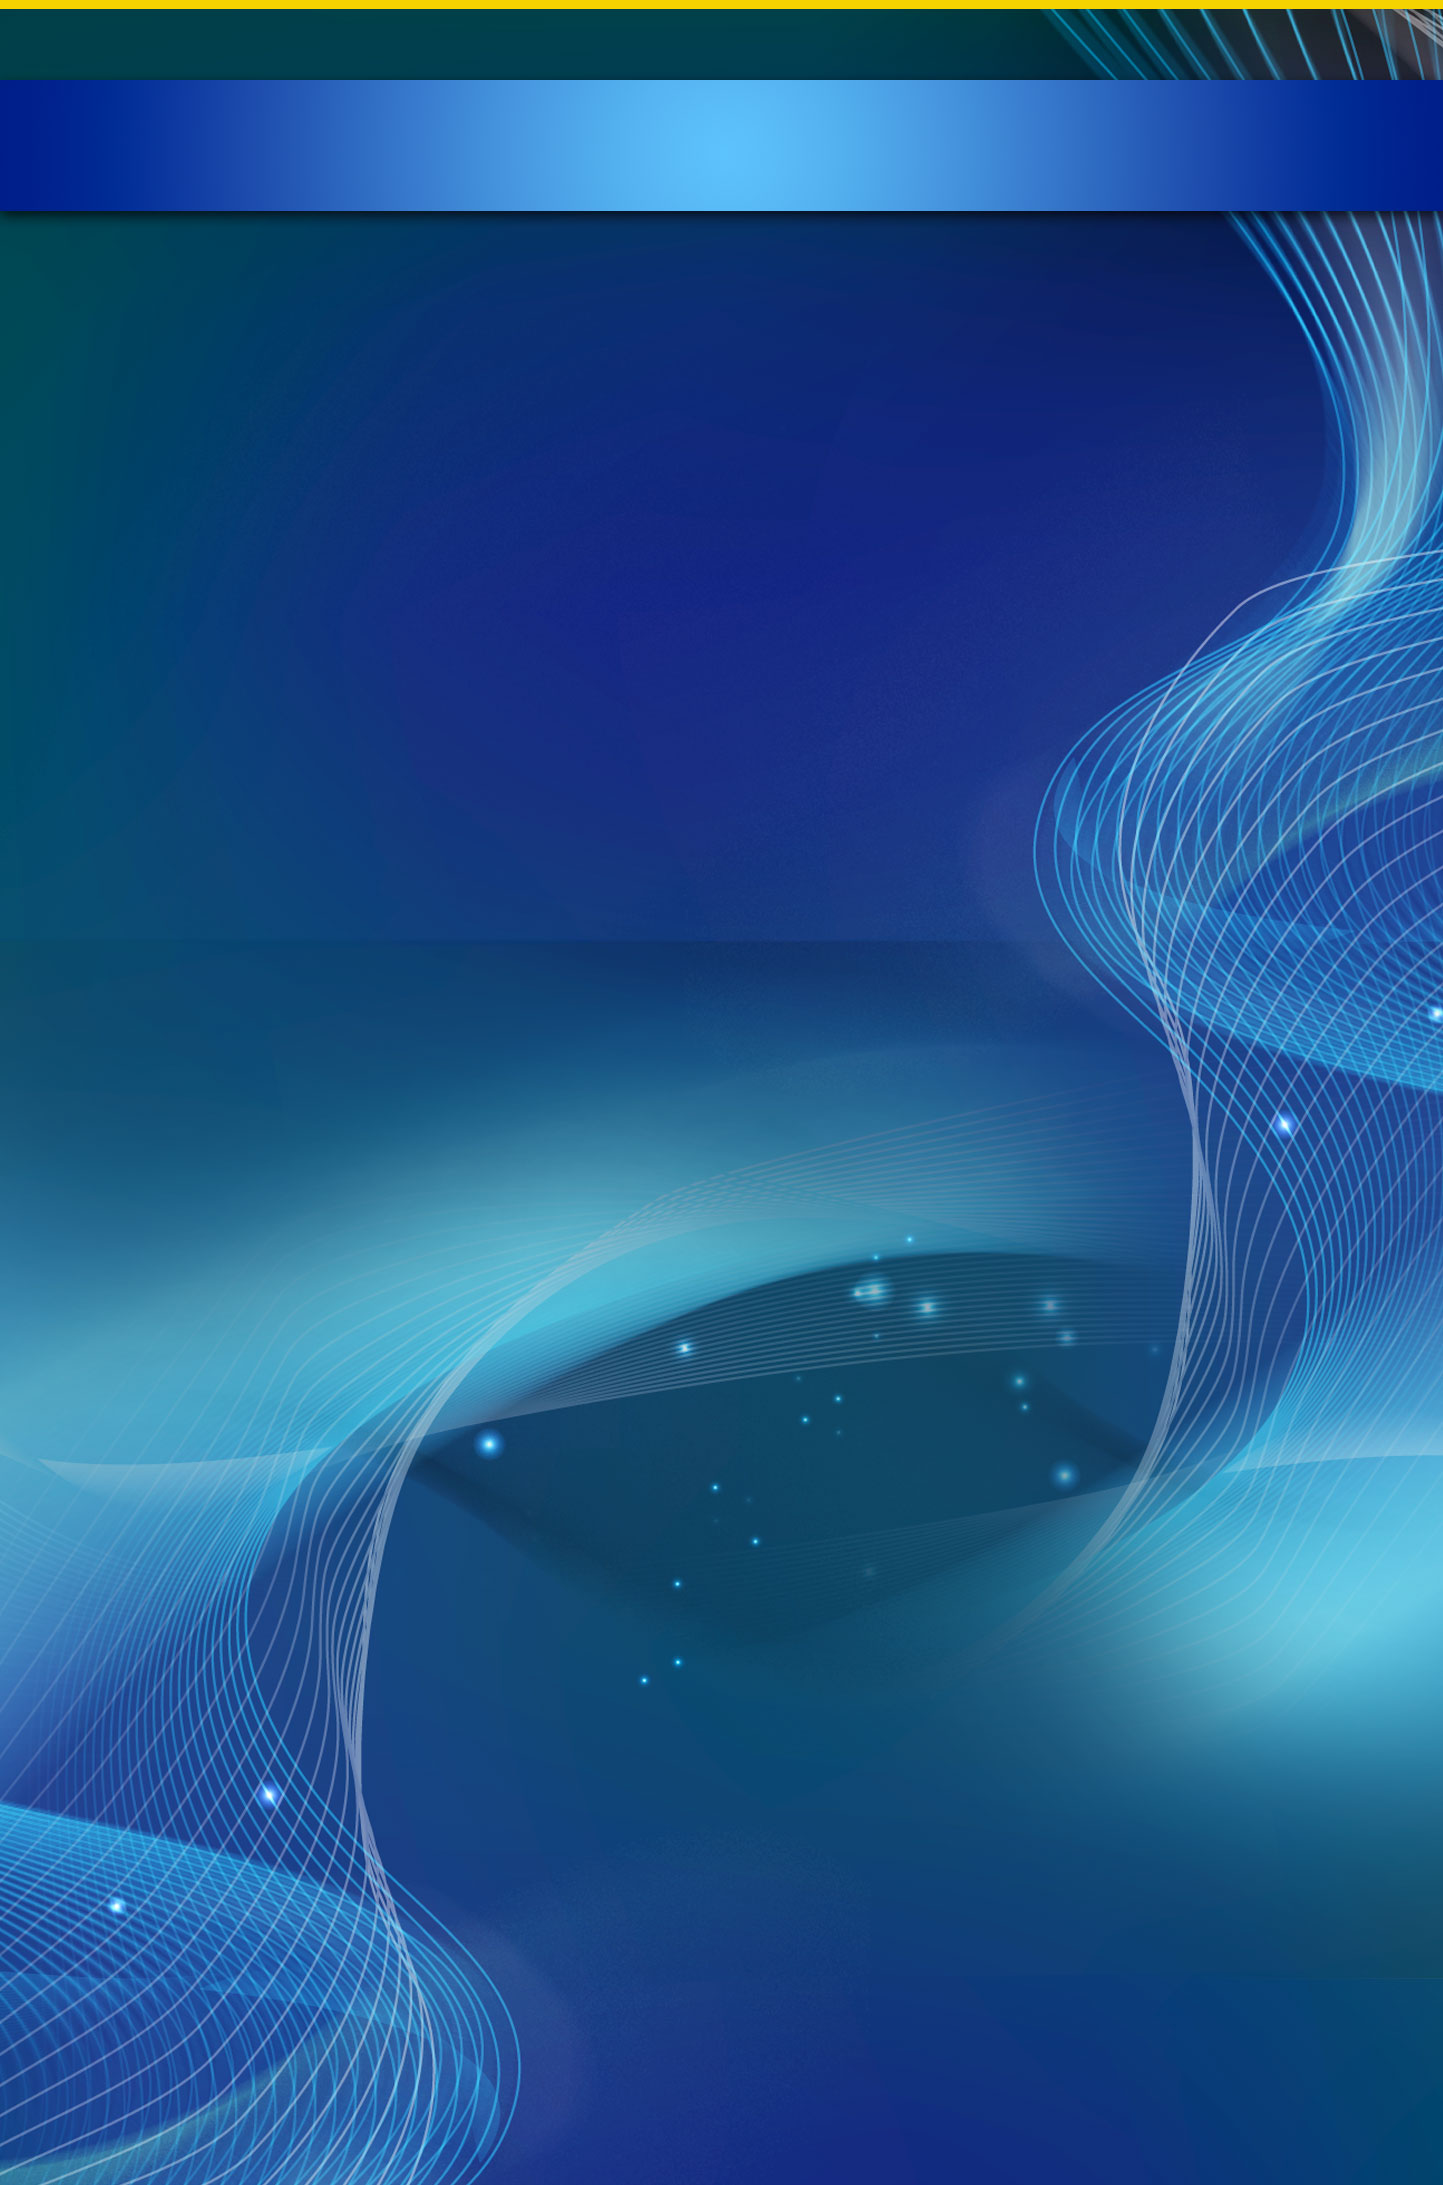
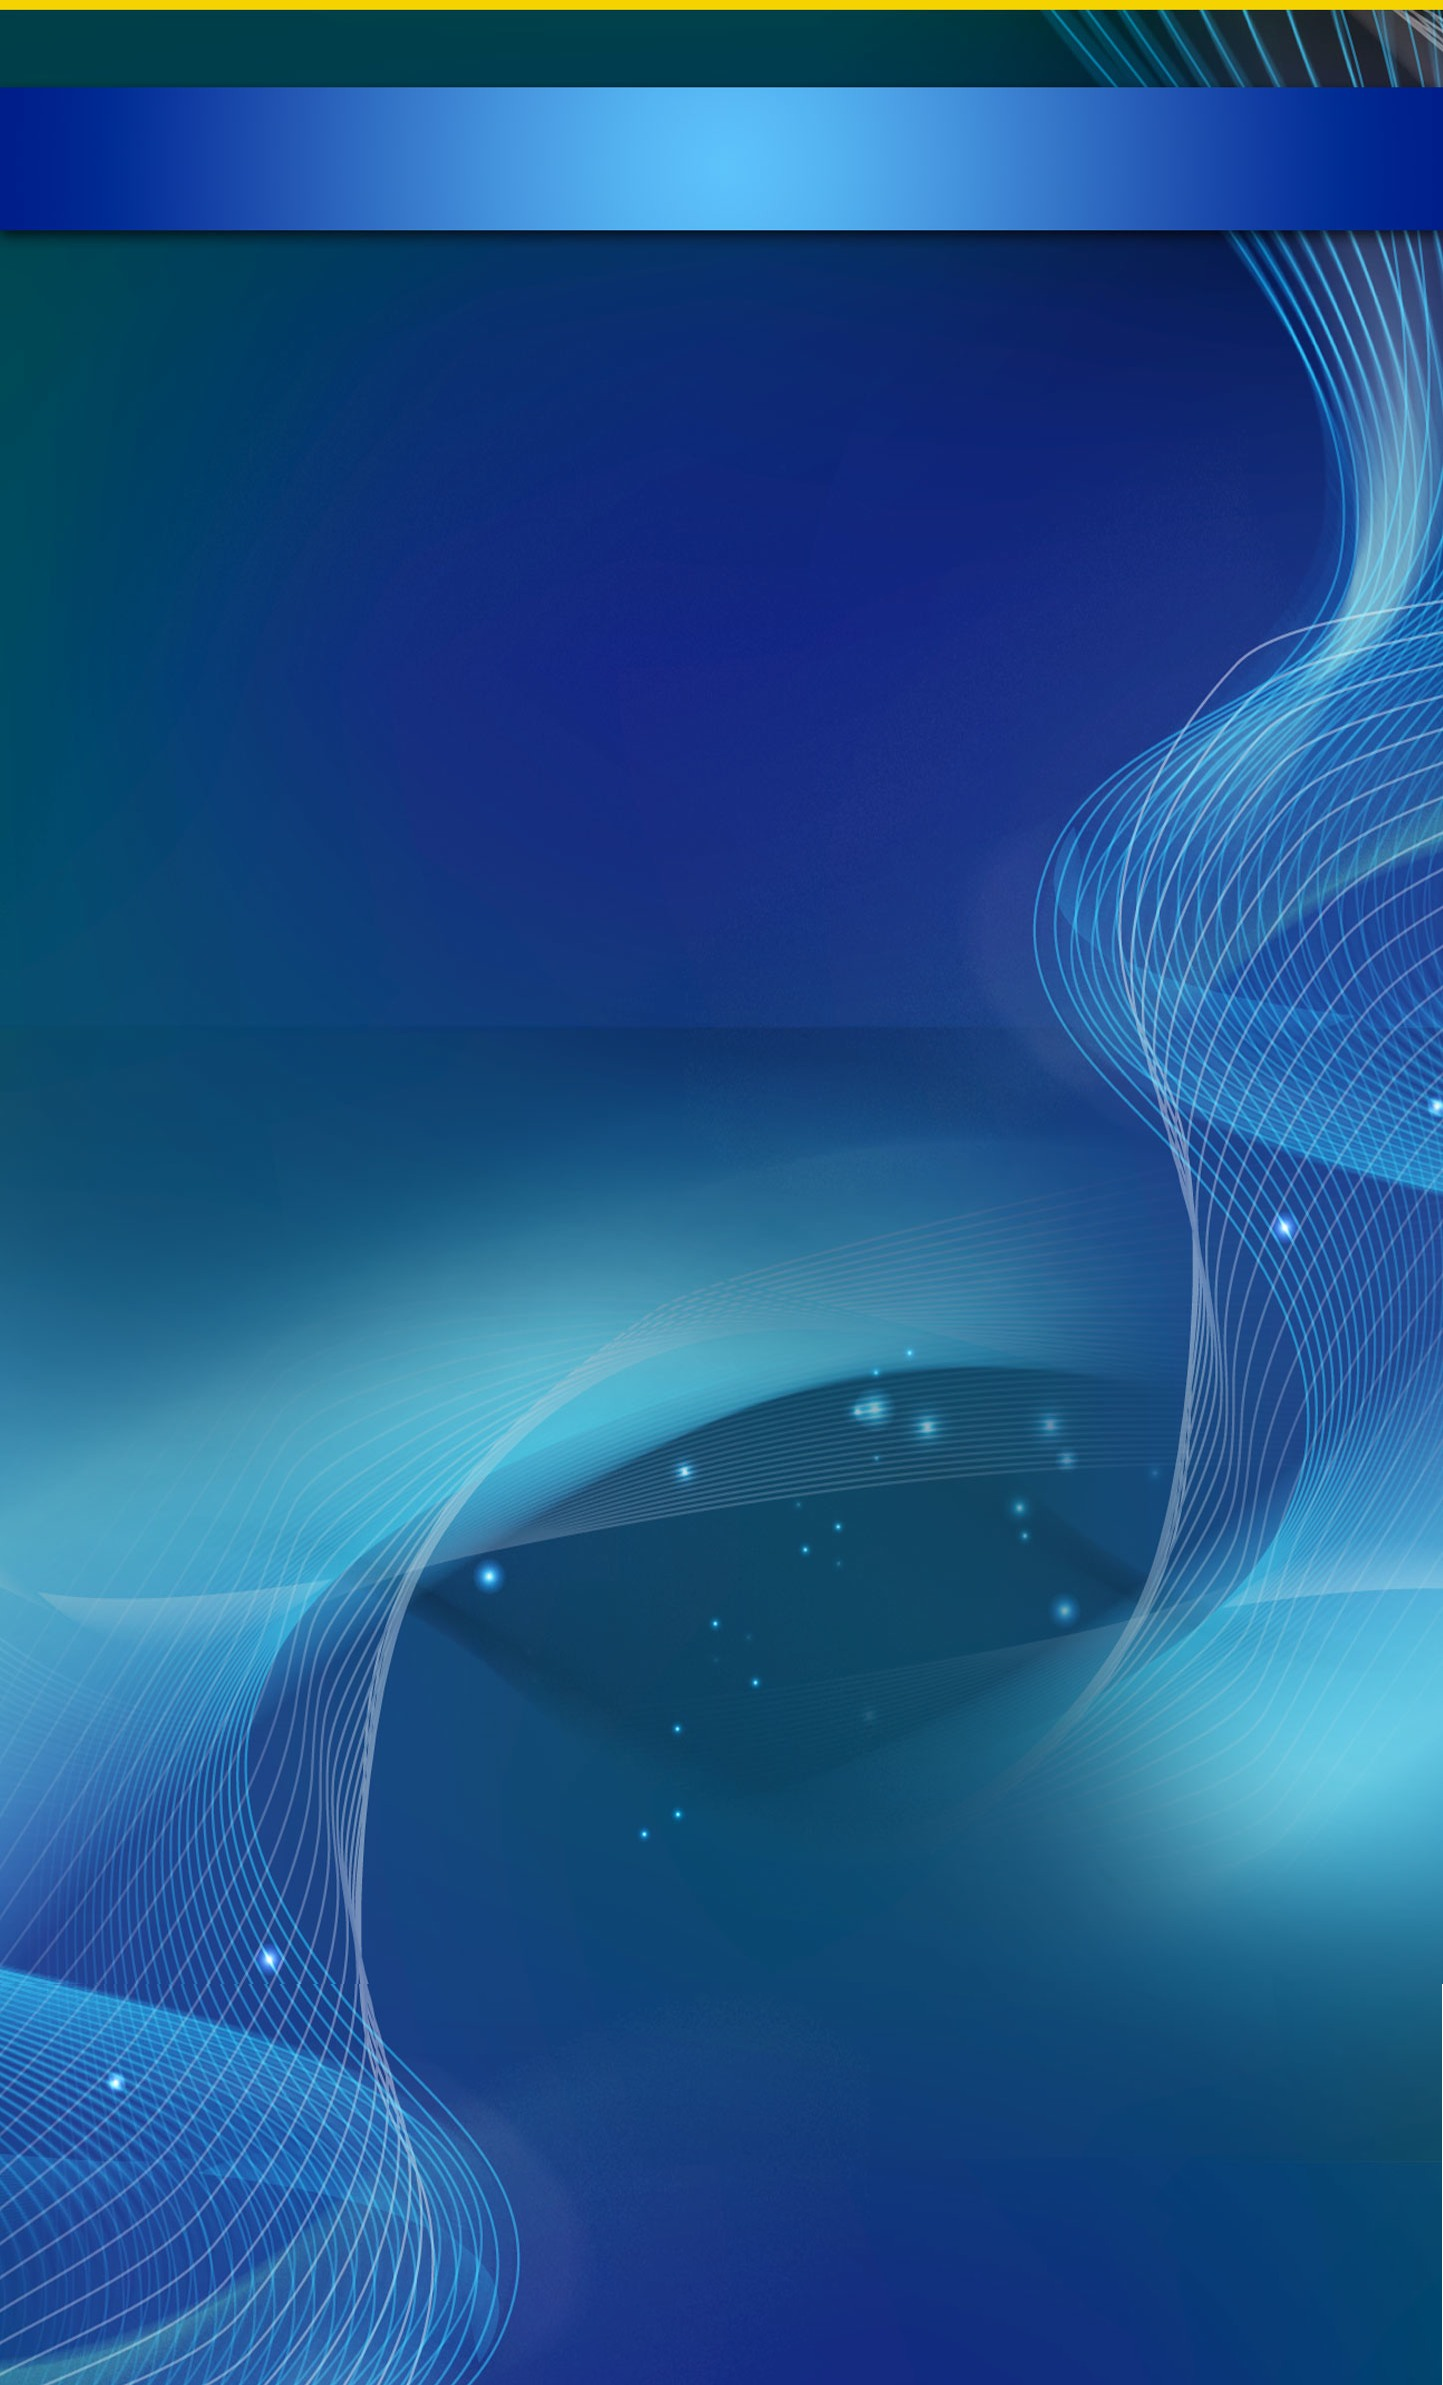
esticado body-bg e nao permitindo repeat

Changed region(s): [[0.0, 0.8092, 0.3742, 1.0], [0.9979, 0.8403, 1.0, 1.0]]

diff --git a/public/css/main.css b/public/css/main.css
@@ -133,7 +133,7 @@ body {
 	display:block;
 }
 
-#wrapper { max-width:1440px; min-width:968px; width:auto; margin:0 auto; border:none; background:transparent url(../img/body-bg.jpg) repeat right top; overflow:hidden; }
+#wrapper { max-width:1440px; min-width:968px; width:auto; margin:0 auto; border:none; background:transparent url(../img/body-bg.jpg) no-repeat right top; overflow:hidden; }
 #wrapper #page { width:968px; margin:0 auto; padding:0; background:none; }
 
 #wrapper2 { max-width:1440px; min-width:968px; width:auto; margin:0 auto; border:none; }
